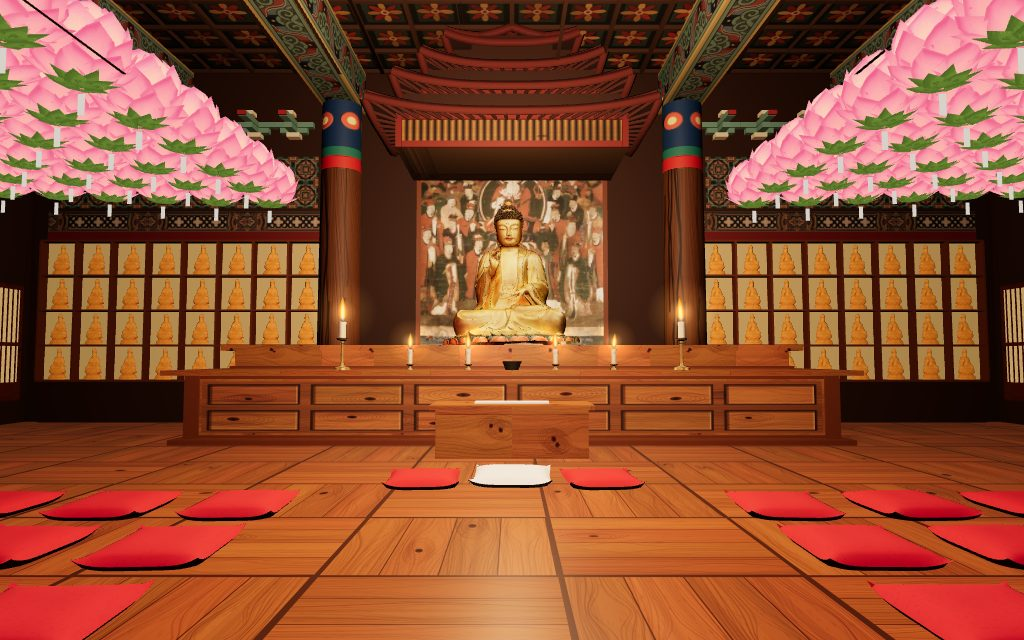
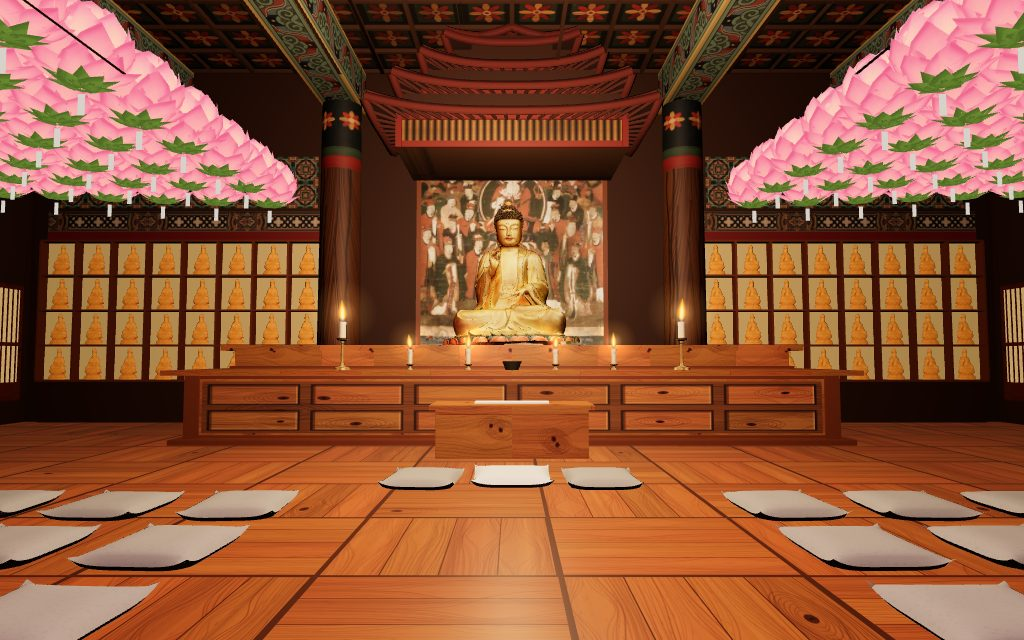
산사 기본 가람: 석등·석탑 재질 개선, 조이스틱 제거, 돌길 이동 제한
Claude-Session: https://claude.ai/code/session_01P8ePTTx464qU2Cp6iHb6AC

diff --git a/sansa/index.html b/sansa/index.html
@@ -41,7 +41,7 @@ button[aria-pressed="true"]{background:var(--noerok);color:#16201b;border-color:
 #mapSvg{display:block;width:100%;height:auto;max-height:calc(100dvh - 240px)}
 @media (max-width:640px){#mapPanel{top:calc(150px + env(safe-area-inset-top,0px))}}
 #status{position:fixed;inset:0;display:flex;align-items:center;justify-content:center;text-align:center;padding-inline:24px;color:var(--muted);font-size:15px;pointer-events:none}
-@media (pointer:coarse){#joy{display:block}#hint{display:none}#act{bottom:calc(84px + env(safe-area-inset-bottom,0px))}}
+@media (pointer:coarse){#hint{display:none}#act{bottom:calc(84px + env(safe-area-inset-bottom,0px))}}
 @media (max-width:640px){.top{flex-direction:column;align-items:stretch;gap:6px}#place{max-width:none}.time{align-self:flex-end}button{padding:8px 9px;font-size:12.5px}.bottom{flex-wrap:nowrap;overflow-x:auto;scrollbar-width:none}}
 @media (prefers-reduced-motion:reduce){#fade{transition:none}}
 </style>
@@ -170,7 +170,7 @@ const mats={
   iron:new THREE.MeshStandardMaterial({color:'#4b5148',roughness:.45,metalness:.7}),
 };
 mats.under=new THREE.MeshStandardMaterial({color:'#4f6f60',roughness:.9,side:THREE.BackSide});
-const lanternGlow=new THREE.MeshBasicMaterial({color:'#ffcb7a'});
+const lanternGlow=new THREE.MeshBasicMaterial({color:'#ffcb7a',transparent:true,opacity:.62,depthWrite:false,toneMapped:false});
 const maruTex=tex(256,256,(g,w,h)=>{g.fillStyle='#7a5234';g.fillRect(0,0,w,h);for(let y=0;y<h;y+=64)for(let x=(y/64%2)*96;x<w+192;x+=192){g.fillStyle=`hsl(26,${rr(34,44)}%,${rr(29,38)}%)`;g.fillRect(x-192+1,y+1,190,62);}
   for(let i=0;i<700;i++){g.fillStyle=`rgba(40,22,12,${rr(.04,.14)})`;g.fillRect(rr(0,w),rr(0,h),rr(16,70),1);}},true);
 mats.maru=new THREE.MeshStandardMaterial({map:maruTex,roughness:.5});
@@ -341,22 +341,47 @@ const bellGroup=new THREE.Group(),bellY=heightAt(18,14);
 const striker=new THREE.Group();
 { const g=new THREE.CylinderGeometry(.11,.11,2.2,8);g.rotateZ(Math.PI/2);const s=new THREE.Mesh(g,mats.wood);striker.add(s);striker.position.set(19.95,bellY+1.1,14);scene.add(striker); }
 
-// 삼층석탑
-{ const X=0,Z=5;
-  boxG('granite',4.2,.5,4.2,X,.25,Z);boxG('granite',3.2,.9,3.2,X,.95,Z);boxG('granite',3.6,.22,3.6,X,1.51,Z);
-  let yy=1.62;[[1.5,1.2,2.6],[1.3,.62,2.25],[1.1,.56,1.95]].forEach(([w,h,rw])=>{boxG('granite',w,h,w,X,yy+h/2,Z);yy+=h;
-    cylG('granite',rw*.42,rw*.74,.34,4,X,yy+.17,Z,null,Math.PI/4);yy+=.34;});
-  cylG('granite',.24,.34,.2,8,X,yy+.1,Z);cylG('granite',.05,.08,1.1,6,X,yy+.7,Z);
-  [.45,.68,.88].forEach((d,i)=>cylG('granite',.17-.03*i,.17-.03*i,.06,10,X,yy+d,Z));
-  circles.push({x:X,z:Z,r:2.5});terraces.push({x0:X-2.1,x1:X+2.1,z0:Z-2.1,z1:Z+2.1,h:.5});
-}
+circles.push({x:0,z:5,r:2.5});terraces.push({x0:-2.1,x1:2.1,z0:2.9,z1:7.1,h:.5});
 // 석등
 const lantern=new THREE.Mesh(new THREE.CylinderGeometry(.27,.27,.56,8),lanternGlow);
-[-6.4,6.4].forEach(X=>{const Z=-6.4;cylG('granite',.56,.66,.28,8,X,.14,Z);cylG('granite',.13,.16,1.12,8,X,.84,Z);cylG('granite',.46,.3,.2,8,X,1.5,Z);
-  const lt=lantern.clone();lt.position.set(X,1.88,Z);scene.add(lt);
-  [0,1,2,3].forEach(i=>{const a=i*Math.PI/2+Math.PI/4;cylG('granite',.05,.05,.6,6,X+Math.cos(a)*.3,1.88,Z+Math.sin(a)*.3);});
-  cylG('granite',.2,.7,.28,8,X,2.3,Z);cylG('granite',.05,.11,.3,8,X,2.58,Z);circles.push({x:X,z:Z,r:.72});
-});
+const flameT=tex(128,256,(g,w,h)=>{const im=g.createImageData(w,h),d=im.data,mix=(a,b,t)=>a+(b-a)*t;
+    for(let y=0;y<h;y++)for(let x=0;x<w;x++){const v=1-(y+.5)/h,hw=.46*Math.pow(Math.sin(Math.PI*Math.pow(clamp((v-.04)/.92,0,1),.62)),1.35),q=Math.abs((x+.5)/w-.5)/Math.max(hw,.001),e=1-sm((q-.5)/.5);
+      const core=(1-sm(q/.72))*(1-sm((v-.42)/.42)),blue=(1-sm(v/.2))*.7;const r=mix(255,255,core),gg=mix(150,244,Math.min(1,core+.25*(1-q))),bb=mix(40,190,core);const i=(y*w+x)*4;d[i]=mix(r,110,blue);d[i+1]=mix(gg,140,blue);d[i+2]=mix(bb,255,blue);d[i+3]=255*e*(1-blue*.55)*(hw>0?1:0);}
+    g.putImageData(im,0,0);});
+const glowT=tex(64,64,(g,w,h)=>{const q=g.createRadialGradient(w/2,h/2,0,w/2,h/2,w/2);q.addColorStop(0,'rgba(255,200,120,.75)');q.addColorStop(.4,'rgba(255,160,70,.22)');q.addColorStop(1,'rgba(255,140,50,0)');g.fillStyle=q;g.fillRect(0,0,w,h);});
+const lampFires=[];
+/* 석등: 팔각 화강암. 연꽃 받침과 지붕돌을 깎고, 이끼·빗물 자국·틈의 그늘을 입힌다 */
+{const lsT=tex(512,512,(g,w,h)=>{g.fillStyle='#a8a193';g.fillRect(0,0,w,h);
+    for(let i=0;i<70;i++){const x=rr(0,w),y=rr(0,h),r=rr(30,130),q=g.createRadialGradient(x,y,0,x,y,r),c=['88,80,68','214,208,194','150,136,104'][i%3];q.addColorStop(0,`rgba(${c},${rr(.12,.3)})`);q.addColorStop(1,`rgba(${c},0)`);g.fillStyle=q;g.fillRect(x-r,y-r,r*2,r*2);}
+    for(let i=0;i<30000;i++){g.fillStyle=`rgba(${R()<.55?'40,36,32':'246,242,232'},${rr(.06,.32)})`;g.fillRect(rr(0,w),rr(0,h),rr(1,2.6),rr(1,2.6));}
+    for(let i=0;i<46;i++){const x=rr(0,w);g.fillStyle=`rgba(46,40,34,${rr(.04,.13)})`;g.fillRect(x,rr(0,h*.4),rr(2,9),rr(90,300));}},true);
+  mats.lstone=new THREE.MeshStandardMaterial({map:lsT,bumpMap:lsT,bumpScale:2.2,vertexColors:true,roughness:.93});
+  let pH=3.2,pK=.8,pS=.3,pM=1;const paint=(g,y0,H)=>{const p=g.attributes.position,c=new Float32Array(p.count*3);for(let i=0;i<p.count;i++){const t=clamp((p.getY(i)-y0)/H,0,1),nx=p.getX(i),nz=p.getZ(i),m=Math.max(0,.5+.5*Math.sin(nx*5+nz*3+p.getY(i)*4))*(1-t)*(1-t)*pM,k=pK+pS*t;c.set([k*(1-.22*m),k*(1-.06*m),k*(1-.3*m)],i*3);}g.setAttribute('color',new THREE.BufferAttribute(c,3));};
+  const put=(T,g,ao,sm0)=>{g=g.index?g.toNonIndexed():g;if(!sm0)g.computeVertexNormals();const u=g.attributes.uv,p=g.attributes.position,n=g.attributes.normal;for(let i=0;i<p.count;i++){const ax=Math.abs(n.getX(i)),ay=Math.abs(n.getY(i)),az=Math.abs(n.getZ(i));if(ay>ax&&ay>az)u.setXY(i,p.getX(i)*1.1,p.getZ(i)*1.1);else u.setXY(i,(ax>az?p.getZ(i):p.getX(i))*1.1,p.getY(i)*1.1);}paint(g,0,pH);if(ao){const c=g.attributes.color;for(let i=0;i<c.count;i++)c.setXYZ(i,c.getX(i)*ao,c.getY(i)*ao,c.getZ(i)*ao);}g.applyMatrix4(T);add('lstone',g);};
+  const oct=(pts,T,ao,seg=8)=>{const g=new THREE.LatheGeometry(pts.map(a=>new THREE.Vector2(a[0],a[1])),seg,Math.PI/8);put(T,g,ao);};
+  const petals=(T,y,rad,up,n=8)=>{for(let i=0;i<n;i++){const a=(i+.5)/n*6.283,g=new THREE.SphereGeometry(1,9,7);g.scale(.19,.13,.07);g.rotateX(up?-.42:.42);g.translate(0,0,rad);g.rotateY(a);g.translate(0,y,0);put(T,g);}};
+  [-6.4,6.4].forEach(X=>{const Z=-6.4,sc=.9,T=new THREE.Matrix4().makeScale(sc,sc,sc).premultiply(new THREE.Matrix4().makeTranslation(X,0,Z));
+    oct([[0,0],[.84,0],[.84,.09],[.78,.13],[.74,.13],[0,.13]],T,.86);
+    oct([[.7,.13],[.72,.2],[.62,.3],[.42,.42],[.3,.46],[.26,.5],[0,.5]],T);petals(T,.3,.56,false);
+    oct([[.17,.5],[.16,.9],[.155,.92],[.22,.95],[.24,.99],[.22,1.03],[.155,1.06],[.15,1.08],[.14,1.5]],T,.96,16);
+    oct([[.17,1.46],[.3,1.5],[.5,1.6],[.56,1.66],[.56,1.72],[.34,1.74],[0,1.74]],T);petals(T,1.6,.42,true);
+    [0,1,2,3].forEach(i=>{const a=(i+.5)*Math.PI/2,g=new THREE.BoxGeometry(.24,.62,.09);g.translate(0,2.05,.33);g.rotateY(a);put(T,g);});
+    [0,1,2,3].forEach(i=>{const a=i*Math.PI/2,g=new THREE.BoxGeometry(.3,.09,.045);g.translate(0,2.31,.34);g.rotateY(a);put(T,g,.9);const f=new THREE.BoxGeometry(.3,.09,.045);f.translate(0,1.79,.34);f.rotateY(a);put(T,f,.9);});
+    oct([[.42,1.74],[.42,1.76],[.36,1.76]],T);
+    oct([[0,2.36],[.5,2.36],[.86,2.4],[.9,2.44],[.88,2.47],[.62,2.56],[.4,2.68],[.27,2.8],[.2,2.84],[0,2.84]],T);
+    for(let i=0;i<8;i++){const a=(i+.5)/8*6.283+Math.PI/8-.0,g=new THREE.SphereGeometry(1,8,6);g.scale(.05,.075,.1);g.rotateX(-.5);g.translate(0,2.5,.88);g.rotateY(a);put(T,g);}
+    oct([[.18,2.84],[.2,2.9],[.2,2.97],[.13,3],[.11,3.06],[.17,3.1],[.18,3.15],[.1,3.2],[.13,3.27],[.09,3.34],[.05,3.4],[0,3.42]],T,1,16);
+    const lt=lantern.clone();lt.scale.set(.95,1,.95);lt.position.set(X,2.05*sc,Z);lt.renderOrder=1;scene.add(lt);
+    const fm=new THREE.SpriteMaterial({map:flameT,transparent:true,depthWrite:false,toneMapped:false}),fl=new THREE.Sprite(fm);fl.center.set(.5,.04);fl.scale.set(.24,.5,1);fl.position.set(X,1.8*sc,Z);fl.renderOrder=2;scene.add(fl);
+    const gm=new THREE.SpriteMaterial({map:glowT,blending:THREE.AdditiveBlending,depthWrite:false,transparent:true}),gl2=new THREE.Sprite(gm);gl2.position.set(X,2.05*sc,Z);gl2.scale.setScalar(2.7);scene.add(gl2);lampFires.push({fl,fm,gl2,gm});circles.push({x:X,z:Z,r:.76});});
+  // 삼층석탑: 형태는 처음 그대로, 돌의 재질과 컬러만 석등과 같게
+  {pH=6.4;pK=.96;pS=.14;pM=.3;const T=new THREE.Matrix4().makeTranslation(0,0,5),b=(w,h,y)=>{const g=new THREE.BoxGeometry(w,h,w);g.translate(0,y,0);put(T,g);};
+   const c=(rt,rb,h,n,y,rot,sm0)=>{const g=new THREE.CylinderGeometry(rt,rb,h,n);if(rot)g.rotateY(rot);g.translate(0,y,0);put(T,g,undefined,sm0);};
+   b(4.2,.5,.25);b(3.2,.9,.95);b(3.6,.22,1.51);
+   let yy=1.62;[[1.5,1.2,2.6],[1.3,.62,2.25],[1.1,.56,1.95]].forEach(([w,h,rw])=>{b(w,h,yy+h/2);yy+=h;c(rw*.42,rw*.74,.34,4,yy+.17,Math.PI/4);yy+=.34;});
+   c(.24,.34,.2,8,yy+.1,0,true);c(.05,.08,1.1,6,yy+.7,0,true);
+   [.45,.68,.88].forEach((d,i)=>c(.17-.03*i,.17-.03*i,.06,10,yy+d,0,true));}
+}
 
 /* 돌담 */
 function wall(x0,z0,x1,z1){const l=Math.hypot(x1-x0,z1-z0),along=Math.abs(x1-x0)>Math.abs(z1-z0),mx=(x0+x1)/2,mz=(z0+z1)/2;
@@ -439,7 +464,7 @@ function setLight(k){const L=LIGHT[k],g=skyC.getContext('2d'),gr=g.createLinearG
   hemi.color.set(L.hemi[0]);hemi.groundColor.set(L.hemi[1]);hemi.intensity=L.hemi[2];sun.color.set(L.sun[0]);sun.intensity=L.sun[1];sun.position.set(L.pos[0],L.pos[1],L.pos[2]+12);
   scene.fog.color.set(L.sky[1]);scene.fog.near=L.fog[0];scene.fog.far=L.fog[1];
   const fogC=new THREE.Color(L.sky[0]).lerp(new THREE.Color(L.sky[1]),.35);ranges.forEach(r=>r.m.material.color.copy(r.col).lerp(fogC,r.mix+(k==='dawn'?.25:0)));
-  lanternGlow.color.set('#ffcb7a').multiplyScalar(L.glow);
+  lanternGlow.color.set('#ffd898').multiplyScalar(Math.max(.8,L.glow));
   shadowDirty=true;curExp=L.exp;
   for(const n of Object.keys(LIGHT))$('t-'+n).setAttribute('aria-pressed',n===k);}
 for(const k of Object.keys(LIGHT))$('t-'+k).onclick=()=>setLight(k);
@@ -494,7 +519,6 @@ mats.lattGlow=new THREE.MeshStandardMaterial({map:lattTex,color:'#a08a68',emissi
   {const gF=new THREE.BoxGeometry(26,.68,.1),u=gF.attributes.uv;for(let i=0;i<u.count;i++)u.setX(i,u.getX(i)*8);gF.translate(0,6.5,8.94);add('friezeD',gF);}
   [-12.94,12.94].forEach(x=>{const g=new THREE.BoxGeometry(18,.68,.1),u=g.attributes.uv;for(let i=0;i<u.count;i++)u.setX(i,u.getX(i)*5.54);g.rotateY(Math.PI/2);g.translate(x,6.5,0);add('friezeD',g);});
   for(let z=-8.2;z<=8.3;z+=1.05)[-1,1].forEach(sd=>place(inst.bracket,sd*12.86,7.7,z,1,1,1,null,-sd*Math.PI/2));
-  for(let x=-12.2;x<=12.3;x+=1.05)if(Math.abs(x)>4.9)place(inst.bracket,x,7.7,-8.9,1,1,1,null,0);
   // 큰 들보
   // 대들보 단청: 받은 문양 한 줄을 그대로, 비율을 지켜 보 길이만큼 잇는다
   const beamMat=new THREE.MeshStandardMaterial({color:'#fff',roughness:.75});mats.beam=beamMat;
@@ -508,7 +532,7 @@ mats.lattGlow=new THREE.MeshStandardMaterial({map:lattTex,color:'#a08a68',emissi
     for(let i=0;i<13;i++){let x=rr(0,w),y=rr(0,h-300);const L=rr(280,1300);g.strokeStyle=`rgba(18,8,3,${rr(.45,.85)})`;g.lineWidth=rr(1.2,4.2);g.lineCap='round';g.beginPath();g.moveTo(x,y);for(let t=0;t<L;t+=44){x+=rr(-3.5,3.5);g.lineTo(x,y+t);}g.stroke();}
     g.fillStyle='rgba(50,24,10,.16)';g.fillRect(0,0,w,h);},true);
   iMat.column=new THREE.MeshStandardMaterial({map:colWood,bumpMap:colWood,bumpScale:1.4,roughness:.62});
-  const colT=tex(256,1024,(g,w,h)=>{g.drawImage(colWood.image,0,0);g.scale(.5,.5);w=512;[['#2f7461',0,120],['#b9352a',120,56],['#d7b45a',176,20],['#1f3e63',196,300],['#2f7461',496,52],['#b9352a',548,68]].forEach(([c,y,hh])=>{g.fillStyle=c;g.fillRect(0,y,w,hh);});for(let i=0;i<4;i++){g.fillStyle='#c8634a';g.beginPath();g.arc(64+i*128,340,48,0,7);g.fill();g.fillStyle='#ecd591';g.beginPath();g.arc(64+i*128,340,22,0,7);g.fill();}});
+  const colT=tex(256,1024,(g,w,h)=>{g.drawImage(colWood.image,0,0);g.scale(.5,.5);w=512;[['#3a5a4c',0,120],['#8e3f30',120,56],['#b89a58',176,20],['#1c2a33',196,300],['#3a5a4c',496,52],['#8e3f30',548,68]].forEach(([c,y,hh])=>{g.fillStyle=c;g.fillRect(0,y,w,hh);});for(let i=0;i<4;i++){const cx=64+i*128+rr(-3,3),cy=340+rr(-3,3);for(let a=0;a<8;a++){g.save();g.translate(cx,cy);g.rotate(a*Math.PI/4);g.fillStyle=a%2?'#a24a35':'#b89a58';g.beginPath();g.ellipse(0,-30,12,24,0,0,7);g.fill();g.restore();}g.fillStyle='#c9bda2';g.beginPath();g.arc(cx,cy,14,0,7);g.fill();}aged(g,512,616,.9);});
   const colM=new THREE.Mesh(new THREE.CylinderGeometry(.5,.56,H-.2,28),MK('#fff',.58,{map:colT,bumpMap:colT,bumpScale:1.2}));[-4.5,4.5].forEach(x=>{const c=colM.clone();c.position.set(x,(H-.2)/2,-8.45);c.castShadow=false;scene.add(c);place(inst.base,x,.1,-8.45,.76,.2,.76);circles.push({x,z:-8.45,r:.7});});
   [[-12.38,-3],[12.38,-3],[-12.38,3],[12.38,3]].forEach(([x,z])=>{const top=.925;place(inst.column,x,(H+top)/2,z,.42,H-top,.42);});   // 기둥은 양옆 단상 윗판 위에 서서 끝난다
   // 불단 뒷벽
@@ -557,11 +581,6 @@ mats.lattGlow=new THREE.MeshStandardMaterial({map:lattTex,color:'#a08a68',emissi
    roofKey='roof';ridgeKey='ridge';gableKey='wood';}
   // 초와 꽃
   // 촛불: 겉불꽃, 속불꽃, 은은한 빛무리로 만들고 매 순간 흔들리게 한다
-  const flameT=tex(128,256,(g,w,h)=>{const im=g.createImageData(w,h),d=im.data,mix=(a,b,t)=>a+(b-a)*t;
-    for(let y=0;y<h;y++)for(let x=0;x<w;x++){const v=1-(y+.5)/h,hw=.46*Math.pow(Math.sin(Math.PI*Math.pow(clamp((v-.04)/.92,0,1),.62)),1.35),q=Math.abs((x+.5)/w-.5)/Math.max(hw,.001),e=1-sm((q-.5)/.5);
-      const core=(1-sm(q/.72))*(1-sm((v-.42)/.42)),blue=(1-sm(v/.2))*.7;const r=mix(255,255,core),gg=mix(150,244,Math.min(1,core+.25*(1-q))),bb=mix(40,190,core);const i=(y*w+x)*4;d[i]=mix(r,110,blue);d[i+1]=mix(gg,140,blue);d[i+2]=mix(bb,255,blue);d[i+3]=255*e*(1-blue*.55)*(hw>0?1:0);}
-    g.putImageData(im,0,0);});
-  const glowT=tex(64,64,(g,w,h)=>{const q=g.createRadialGradient(w/2,h/2,0,w/2,h/2,w/2);q.addColorStop(0,'rgba(255,200,120,.75)');q.addColorStop(.4,'rgba(255,160,70,.22)');q.addColorStop(1,'rgba(255,140,50,0)');g.fillStyle=q;g.fillRect(0,0,w,h);});
   const mkFlame=(x,y,z,s=1)=>{const f=new THREE.Group(),m=new THREE.SpriteMaterial({map:flameT,transparent:true,depthWrite:false,toneMapped:false}),o=new THREE.Sprite(m);o.center.set(.5,.04);o.scale.set(.17,.36,1);f.add(o);f.position.set(x,y-.02,z);f.scale.setScalar(s);f.userData.s=s;f.userData.m=m;
     const g=new THREE.Sprite(new THREE.SpriteMaterial({map:glowT,blending:THREE.AdditiveBlending,depthWrite:false,transparent:true}));g.position.set(x,y+.11*s,z);g.scale.setScalar(.95*s);f.userData.g=g;scene.add(f,g);flames.push(f);};
   const brass=(x,y,z)=>{brassSpots.push([x,y,z]);mkFlame(x,y+.476,z,1);};[-2.1,-.9,.9,2.1].forEach(x=>brass(x,1.45,-4.95));[-3.5,3.5].forEach(x=>{tallSpots.push([x,1.45,-4.95]);mkFlame(x,1.45+1.02,-4.95,1.5);});
@@ -581,14 +600,14 @@ mats.lattGlow=new THREE.MeshStandardMaterial({map:lattTex,color:'#a08a68',emissi
   [-1,1].forEach(sd=>{for(let i=0;i<6;i++){const lx=sd*(5.9+i*1.3),c=new THREE.Color(LC[i%8]).multiplyScalar(.92);for(let j=0;j<12;j++){const lz=-7.2+j*1.4,ly=5.95+(i*.05)+(j%2)*.03;const m=new THREE.Matrix4().makeTranslation(lx,ly,lz);m.multiply(new THREE.Matrix4().makeScale(.235,.26,.235));inst.lamp.push(m);lamps.push(c);lampSpots.push([lx,ly,lz]);place(inst.tag,lx,ly-.82,lz,1,1,1);}}});
   // 방석
   const fabric=tex(128,128,(g,w,h)=>{g.fillStyle='#fff';g.fillRect(0,0,w,h);for(let i=0;i<1700;i++){g.fillStyle=`rgba(${R()<.5?'0,0,0':'255,255,255'},${rr(.02,.07)})`;g.fillRect(rr(0,w),rr(0,h),rr(1,3),1);}});
-  mats.cushion=MK('#b2242c',.92,{map:fabric,side:THREE.DoubleSide});
+  mats.cushion=MK('#8c8d89',.92,{map:fabric,side:THREE.DoubleSide});
   const mat=(x,z,c='cushion',s=.86)=>{matSpots.push([x,z]);const w=s*.57,d=s*.64,fat=rr(.1,.125),ry=rr(-.07,.07);   // 위아래 두 겹이 가장자리에서 만나 속이 찬 방석
     [1,-1].forEach(side=>{const g=new THREE.PlaneGeometry(2,2,18,18);g.rotateX(-Math.PI/2);const p=g.attributes.position;
       for(let i=0;i<p.count;i++){const u=p.getX(i),v=p.getZ(i),uu=u*u,vv=v*v,body=Math.pow((1-uu*uu)*(1-vv*vv),.55),dip=1-.1*Math.exp(-(uu+vv)*4),seam=.055+.07*Math.pow(uu*vv,2.2),y=side>0?seam+fat*body*dip:Math.max(.006,seam-.06*Math.pow(body,.4));
         p.setXYZ(i,u*w*(1-.04*(1-vv)),y,v*d*(1-.04*(1-uu)));}
       g.computeVertexNormals();g.rotateY(ry);g.translate(x,0,z);add(c,g);});};
   [-7.2,-5.8,-4.4,-3,3,4.4,5.8,7.2].forEach(x=>[1.2,2.8,4.4,6].forEach(z=>mat(x,z)));
-  mats.mat=MK('#ece5d6',.92,{map:fabric,side:THREE.DoubleSide});mat(0,HALL.bowZ,'mat',.96);mat(-1.2,HALL.bowZ+.2);mat(1.2,HALL.bowZ+.2);
+  mats.mat=MK('#c6c6c1',.92,{map:fabric,side:THREE.DoubleSide});mat(0,HALL.bowZ,'mat',.96);mat(-1.2,HALL.bowZ+.2);mat(1.2,HALL.bowZ+.2);
 }
 flush();
 {const h=new THREE.HemisphereLight('#ffeed6','#6a3a1c',.5),a=new THREE.PointLight('#ffd9ae',46,34,1.25),c=new THREE.PointLight('#ffd0a0',16,12,1.3),d=new THREE.PointLight('#ffc0d6',22,26,1.3);a.position.set(0,5.3,.6);c.position.set(0,4.6,-3.6);d.position.set(0,5,5.4);roomScene.add(h,a,c,d);}
@@ -689,7 +708,7 @@ function solve(p,r=.36){
   if(p.z<24){const ax=Math.abs(p.x),sg=Math.sign(p.x)||1;
     if(ax>16.9&&p.z<6.3){if(6.3-p.z<ax-16.9)p.z=6.3;else p.x=sg*16.9;}
     const a2=Math.abs(p.x);if(a2>12.96&&p.z<-9.4){if(-9.4-p.z<a2-12.96)p.z=-9.4;else p.x=sg*12.96;}if(p.z<-12.9)p.z=-12.9;}
-  else{p.x=clamp(p.x,-14,14);p.z=Math.min(p.z,46);}
+  else{p.z=Math.min(p.z,38);const c=pathX(p.z);p.x=clamp(p.x,c-1.6,c+1.6);}
   const ex=p.x/100,ez=(p.z-8)/100,e=Math.hypot(ex,ez);if(e>1){p.x/=e;p.z=(p.z-8)/e+8;}
 }
 const inRect=(x,z)=>rects.some(q=>x>q.x0&&x<q.x1&&z>q.z0&&z<q.z1);
@@ -703,7 +722,7 @@ const ZONE={
  tap:['삼층석탑','부처의 사리를 모신 탑을 본떠 세웁니다.'],
  deung:['석등','부처의 가르침을 어둠을 밝히는 빛에 빗댄 돌등입니다.'],
  dae:['대웅전','석가모니불을 모시는 절의 중심 법당입니다. 문을 누르면 법당 안으로 들어갑니다.'],
- beop:['법당 안','부처님 앞에 왔습니다. 불단 앞 흰 방석에 서면 삼배를 올릴 수 있고, 뒤쪽 문으로 나갑니다.'],
+ beop:['법당 안','부처님 앞에 왔습니다. 불단 앞 밝은 회색 방석에 서면 삼배를 올릴 수 있고, 뒤쪽 문으로 나갑니다.'],
  sim:['심검당','스님들이 머물며 수행하는 요사채입니다.'],
  seol:['설선당','법을 논하고 참선하는 요사채입니다.'],
  jong:['범종각','범종을 달아 둔 누각입니다. 가까이 가서 종을 쳐 보세요.'],
@@ -800,6 +819,7 @@ function frame(now){
   if(bow){bow.t+=dt;P.face=0;me.rotation.y=0;const k=Math.sin(Math.PI*Math.min(1,bow.t/3))**2;bowK=k;if(!rig){me.rotation.x=-k*1.2;me.position.y-=k*.42;}
     if(bow.t>=3.3){bow.t=0;bow.n++;if(bow.n>=3){bow=null;$('pDesc').textContent='삼배를 마쳤습니다.';}else moktak();}}
   if(!bow)bowK=0;
+  if(mode==='out')lampFires.forEach((f,i)=>{const t=now*.001+i*2.3,a=reduced?0:Math.sin(t*11)+.5*Math.sin(t*23.3+i)+.3*Math.sin(t*4.7);f.fl.scale.set(.24*(1-.05*a),.5*(1+.13*a),1);f.fm.rotation=reduced?0:.07*Math.sin(t*6.3)+.05*Math.sin(t*13.1);f.gm.opacity=.8+.16*Math.sin(t*9+i)+.05*a;f.gl2.scale.setScalar(2.7*(1+.04*a));});
   if(mapMe&&!$('mapPanel').hidden){const ins=P.z>-31&&P.z<27&&Math.abs(P.x)<32;mapMe.style.display=ins?'':'none';mapMe.setAttribute('transform',`translate(${P.x.toFixed(2)} ${P.z.toFixed(2)}) rotate(${(-P.face*57.3).toFixed(0)})`);}
   if(sweeper&&mode==='out'){const w=sweeper;w.mix.update(dt);
     if(w.turn>0){w.turn-=dt;const goal=w.dir*Math.PI/2;let df=goal-w.rot;while(df>Math.PI)df-=6.283;while(df<-Math.PI)df+=6.283;w.rot+=df*Math.min(1,dt*3);}
